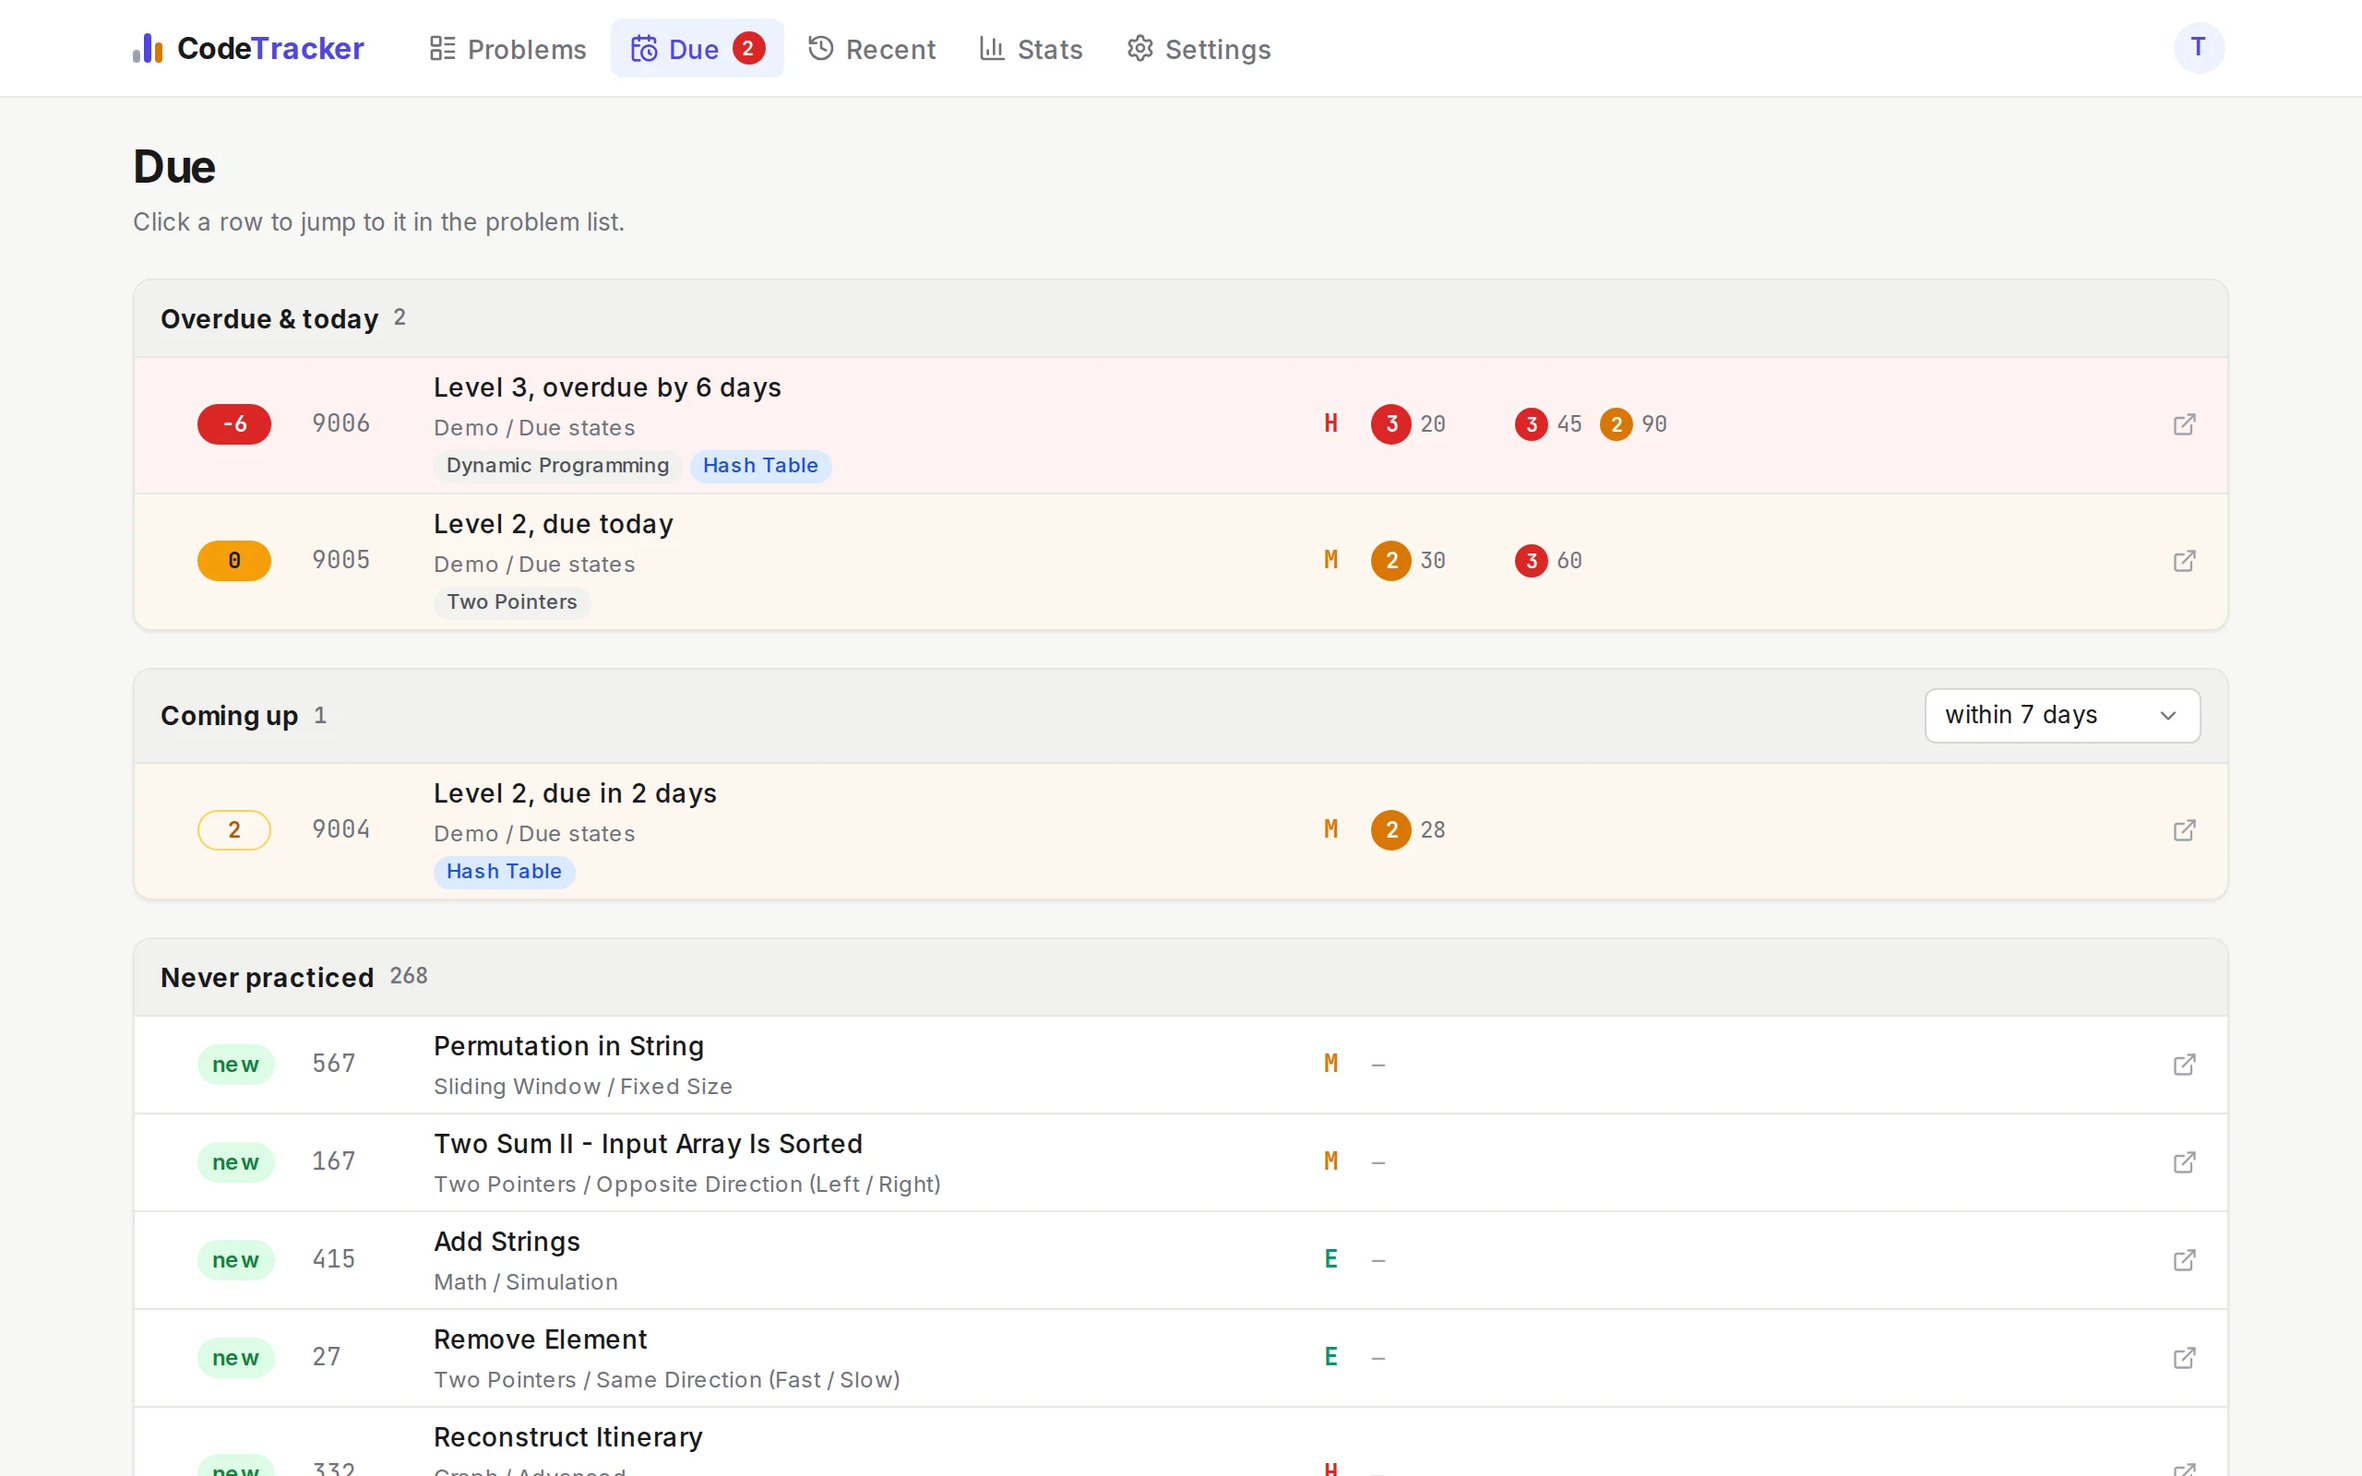
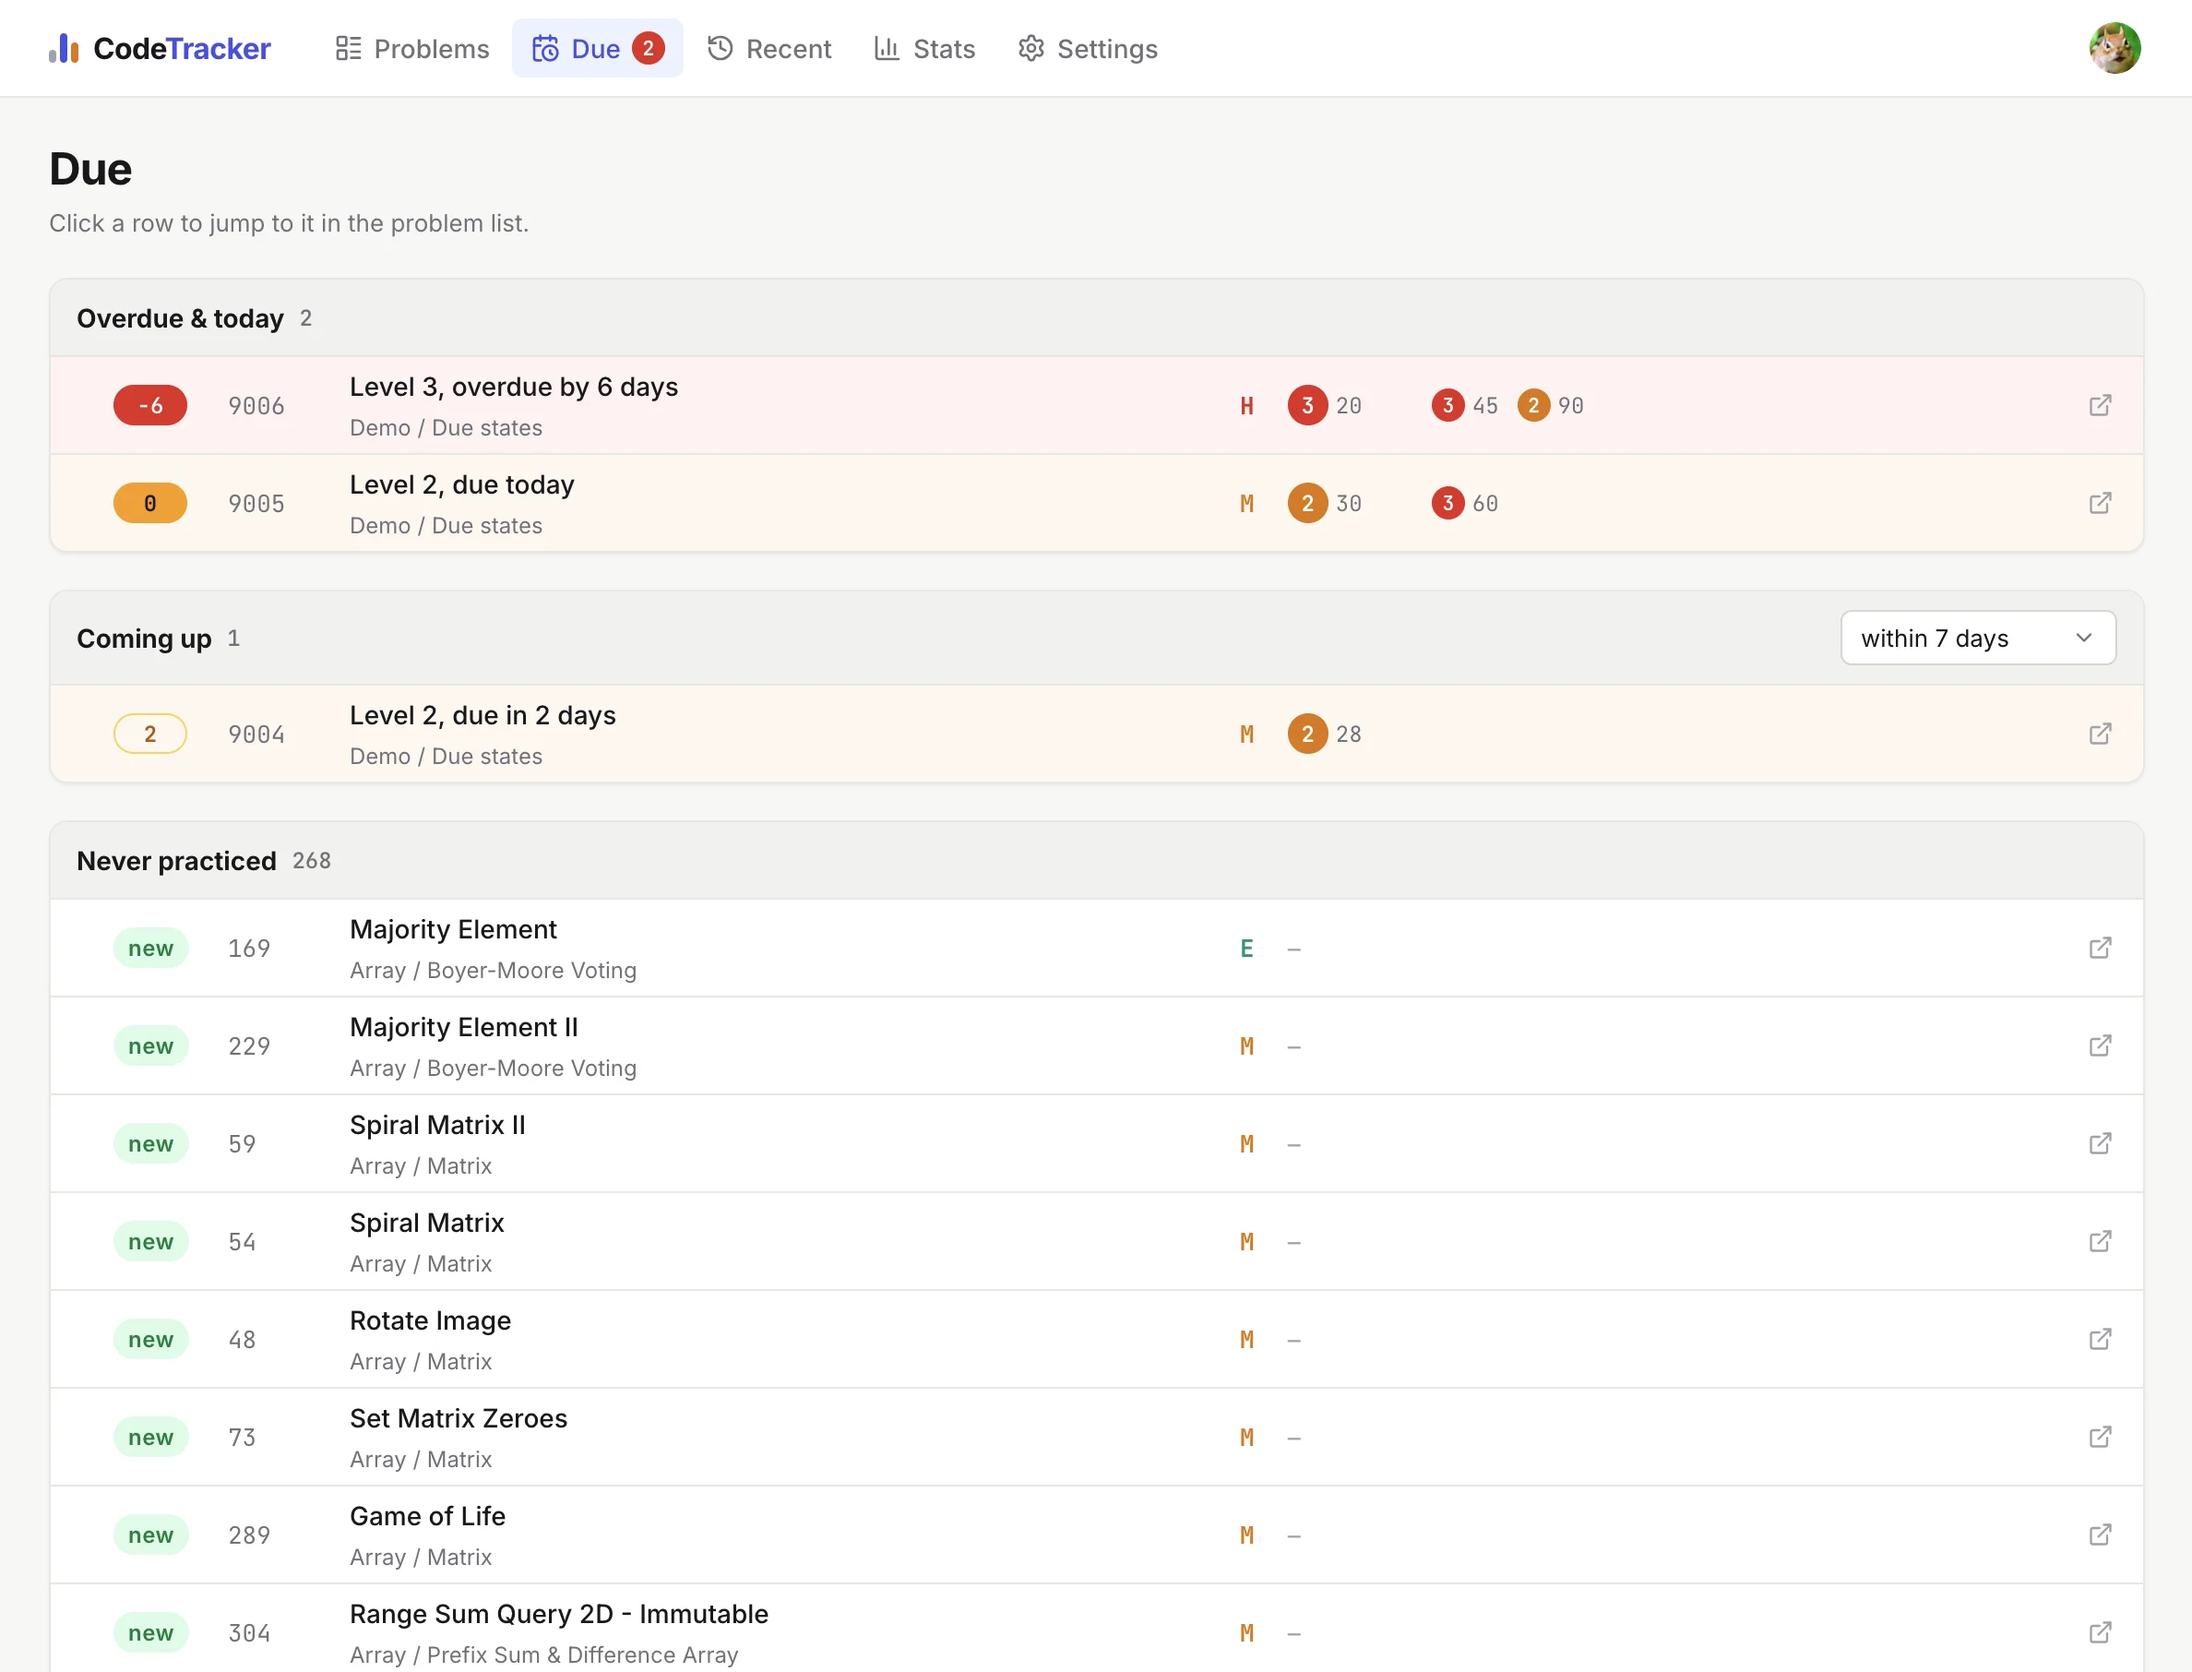
feat(auth): gate on the codeTrackerAccess flag; shared access-request mail
- allowed = JWT codeTrackerAccess === true (role no longer matters);
session carries username
- Landing: "Open Code Tracker" wording; restricted notice offers the
same pre-filled Request access mail as roger.tw settings
- README / CLAUDE.md describe the per-account permission

a

s

diff --git a/src/app/page.tsx b/src/app/page.tsx
@@ -1,8 +1,9 @@
 import Link from "next/link";
-import { ArrowLeft, ArrowRight, LogOut, Mail } from "lucide-react";
+import { ArrowLeft, ArrowRight, LogOut } from "lucide-react";
 import { getSessionUser } from "@/lib/session";
 import { loginUrl, PORTFOLIO_URL } from "@/lib/env";
 import { SITE } from "@/lib/site";
+import { accessRequestMailto } from "@/lib/access-request";
 import { Wordmark } from "@/components/layout/wordmark";
 import { Button } from "@/components/ui/button";
 import { PreviewTable } from "@/components/landing/preview-table";
@@ -34,7 +35,7 @@ export default async function LandingPage() {
         <Wordmark />
         {user?.allowed ? (
           <Button asChild variant="primary" size="sm">
-            <Link href="/problems">Open tracker <ArrowRight size={14} /></Link>
+            <Link href="/problems">Open Code Tracker <ArrowRight size={14} /></Link>
           </Button>
         ) : user ? null : (
           <Button asChild size="sm">
@@ -57,20 +58,17 @@ export default async function LandingPage() {
         <div className={s.cta}>
           {user?.allowed ? (
             <Button asChild variant="primary">
-              <Link href="/problems">Open tracker <ArrowRight size={16} /></Link>
+              <Link href="/problems">Open Code Tracker <ArrowRight size={16} /></Link>
             </Button>
           ) : user ? (
             <div className={s.restricted} role="status">
               <p>
                 Signed in as <strong>{user.email ?? user.name}</strong>.<br />
-                This tool is restricted to authorized users.<br />
-                If you want access, please contact the owner.
+                Code Tracker is available to authorized accounts.
               </p>
               <div className={s.restrictedActions}>
                 <Button asChild variant="primary" size="sm">
-                  <a href="mailto:roger@roger.tw?subject=Code%20Tracker%20access">
-                    <Mail size={14} /> roger@roger.tw
-                  </a>
+                  <a href={accessRequestMailto(user)}>Request access</a>
                 </Button>
                 <Button asChild size="sm">
                   <a href={PORTFOLIO_URL}>

diff --git a/src/lib/access-request.ts b/src/lib/access-request.ts
@@ -1,0 +1,28 @@
+// Keep in sync with the same template in the portfolio (code-tracker-card.tsx)
+const OWNER_EMAIL = "roger@roger.tw";
+
+export function accessRequestMailto(user: { email: string | null; username: string | null; name: string | null }) {
+  const handle = user.username ? `@${user.username}` : "";
+  const who = user.name ? `${user.name}${handle ? ` (${handle})` : ""}` : handle || user.email || "unknown account";
+  const subject = `Code Tracker access request — ${who}`;
+  const body = [
+    "Hi Roger,",
+    "",
+    "I'd like to request access to Code Tracker (code.roger.tw).",
+    "",
+    "Account",
+    `Name: ${user.name ?? ""}`,
+    `Username: ${user.username ?? ""}`,
+    `Email: ${user.email ?? ""}`,
+    "",
+    "Who I am:",
+    "",
+    "",
+    "Why I'd like access:",
+    "",
+    "",
+    "Thank you,",
+    user.name ?? "",
+  ].join("\n");
+  return `mailto:${OWNER_EMAIL}?subject=${encodeURIComponent(subject)}&body=${encodeURIComponent(body)}`;
+}

diff --git a/src/lib/session.ts b/src/lib/session.ts
@@ -1,13 +1,12 @@
 import { auth } from "@/auth";
 import { PORTFOLIO_URL } from "./env";
 
-export const ALLOWED_ROLES = ["admin", "premium"] as const;
-
 export type SessionUser = {
   id: string;
   role: string;
   name: string | null;
   email: string | null;
+  username: string | null;
   image: string | null;
   allowed: boolean;
 };
@@ -21,9 +20,11 @@ export async function getSessionUser(): Promise<SessionUser | null> {
     role: user.role,
     name: user.name ?? null,
     email: user.email ?? null,
+    username: user.username ?? null,
     // avatars uploaded on roger.tw are stored as site-relative paths
     image: user.image ? (user.image.startsWith("/") ? `${PORTFOLIO_URL}${user.image}` : user.image) : null,
-    allowed: (ALLOWED_ROLES as readonly string[]).includes(user.role),
+    // per-account flag granted on the issuing site; carried in the JWT
+    allowed: user.codeTrackerAccess === true,
   };
 }
 

diff --git a/src/auth.ts b/src/auth.ts
@@ -29,6 +29,8 @@ export const { handlers, auth, signOut } = NextAuth({
         if (token.email) session.user.email = token.email;
         if (token.picture) session.user.image = token.picture;
         session.user.role = typeof token.role === "string" ? token.role : "user";
+        session.user.codeTrackerAccess = token.codeTrackerAccess === true;
+        session.user.username = typeof token.username === "string" ? token.username : null;
       }
       return session;
     },

diff --git a/src/types/next-auth.d.ts b/src/types/next-auth.d.ts
@@ -2,12 +2,14 @@ import type { DefaultSession } from "next-auth";
 
 declare module "next-auth" {
   interface Session {
-    user: DefaultSession["user"] & { id: string; role: string };
+    user: DefaultSession["user"] & { id: string; role: string; codeTrackerAccess: boolean; username: string | null };
   }
 }
 
 declare module "next-auth/jwt" {
   interface JWT {
     role?: string;
+    codeTrackerAccess?: boolean;
+    username?: string;
   }
 }

diff --git a/README.md b/README.md
@@ -2,7 +2,7 @@
 
 A personal spaced re-practice tracker for LeetCode. It remembers every problem you have worked on, how familiar each attempt felt, and tells you which ones are due for another round.
 
-**Live**: [code.roger.tw](https://code.roger.tw) (private; sign-in via [roger.tw](https://roger.tw))
+**Live**: [code.roger.tw](https://code.roger.tw)
 
 ![Problems view: category tree, due badges, familiarity history](docs-assets/problems.webp)
 
@@ -25,7 +25,7 @@ A personal spaced re-practice tracker for LeetCode. It remembers every problem y
 
 ## Engineering notes
 
-- **Single sign-on without a login page.** The app never authenticates anyone. The main site issues its Auth.js session JWT on a shared cookie domain; this app shares the secret and simply *decodes* the cookie (`src/auth.ts`). No user table, no OAuth client, no password handling — and a role gate (`admin` / `premium`) applied on every page and API route. Everything is scoped to the JWT's subject.
+- **Single sign-on without a login page.** The app never authenticates anyone. The main site issues its Auth.js session JWT on a shared cookie domain; this app shares the secret and simply *decodes* the cookie (`src/auth.ts`). No user table, no OAuth client, no password handling — and a per-account permission flag carried in the token, checked on every page and API route. Everything is scoped to the JWT's subject.
 - **Calendar dates, computed where the user is.** The server stores plain `DATE`s; "today", days-since and due-in are pure functions in the browser (`src/lib/due.ts`, unit-tested), so a Taipei practice logged from Tokyo still counts on the right day.
 - **One fetch, derived views.** The tracker loads one bootstrap payload; tree, due list, recent log, stats and filters are memoised selectors on the client. Mutations hit small REST routes (zod-validated, ownership-checked, unique-number conflicts → 409) then refetch; drag-and-drop is optimistic and rolls back on failure.
 - **Multi-container drag-and-drop** with dnd-kit: one context over the whole tree, each sub category a sortable container, cross-container drops re-parent the row and persist as a single reorder call.

diff --git a/CLAUDE.md b/CLAUDE.md
@@ -41,7 +41,7 @@ Code Tracker — a personal LeetCode re-practice tracker (Next.js 16 App Router,
 
 Non-obvious rules that the code enforces and changes must keep:
 
-- Auth is decode-only: `src/auth.ts` never signs users in, it reads a session JWT issued by a sibling site on a shared cookie domain. Only the roles in `ALLOWED_ROLES` (`src/lib/session.ts`) pass `requireUser()`.
+- Auth is decode-only: `src/auth.ts` never signs users in, it reads a session JWT issued by a sibling site on a shared cookie domain. Only accounts whose JWT carries `codeTrackerAccess: true` (a per-account flag set on the issuing site) pass `requireUser()` (`src/lib/session.ts`).
 - Every query is scoped by `userId` (the JWT `sub`). There is no FK to any user table.
 - Calendar dates only: the server stores `DATE`; "today", days-since and due-in are computed in the browser (`src/lib/due.ts`, unit-tested).
 - Only rows on `/problems` are interactive; `/due` and `/recent` link to `/problems?focus=<id>`.
